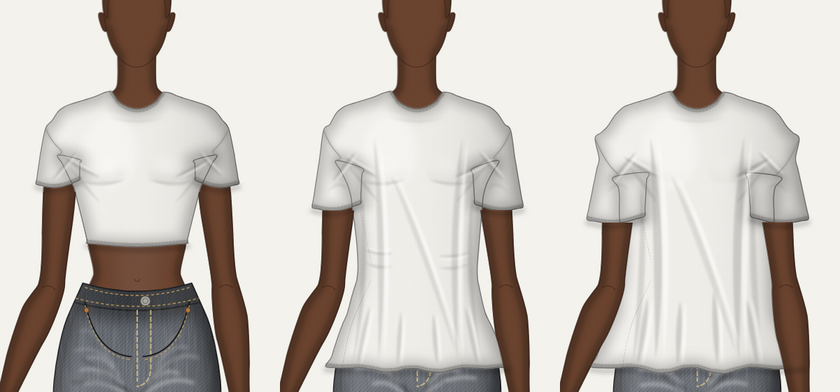
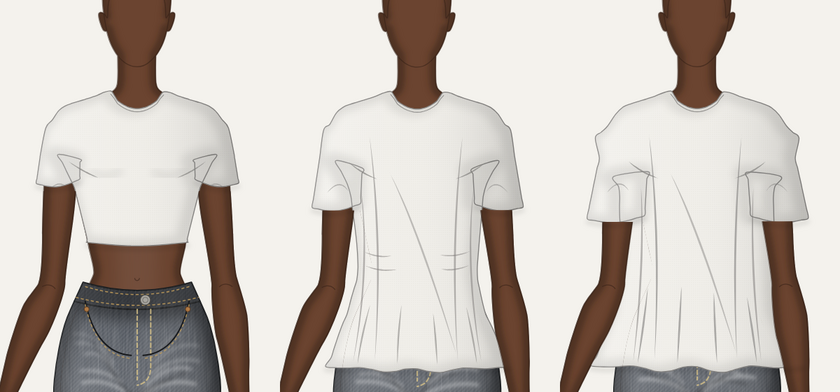
Tops: clean illustration style
Dropped the grey halos, white streaks and blurred edge bands. Tops now get
one crisp outline, flat fabric with a soft shadow side, and a few thin
tapered fold lines.

Claude-Session: https://claude.ai/code/session_01N4gmdzgjq2mCxibreUu9UH

diff --git a/src/components/TopView.tsx b/src/components/TopView.tsx
@@ -119,54 +119,28 @@ export const TopView = memo(function TopView({ g, t, rendered, shading, selected
         <path d={body} fill={fill} stroke={outline} strokeWidth={rendered ? 0.9 : 1.5} strokeLinejoin="round" data-kind="garment" data-gid={g.id} />
         {rendered && shading && (
           <g clipPath={`url(#${clip})`} pointerEvents="none">
+            {/* light from the upper left: one soft shadow side, like marker shading */}
             <rect x={0} y={0} width={600} height={1000} fill={`url(#tl-${uid})`} />
-            <path d={body} fill="none" stroke="#000" strokeWidth={7} opacity={dark ? 0.36 : 0.16} filter={`url(#tb-${uid})`} style={{ mixBlendMode: 'multiply' }} />
-            {/* round shading: darker toward the sides so the torso reads as a body */}
-            <path d={body} fill="none" stroke="#000" strokeWidth={22} opacity={dark ? 0.22 : 0.1} filter={`url(#tb-${uid})`} style={{ mixBlendMode: 'multiply' }} />
-            <ellipse cx={F(-0.35, 0.3).x} cy={F(-0.35, 0.3).y} rx={26} ry={34} fill="#fff" opacity={dark ? 0.08 : 0.35} filter={`url(#tb-${uid})`} />
-            {/* the body underneath: bust volume pushes the fabric out, lit on top and shaded underneath */}
-            {bust &&
+            <path d={body} fill="none" stroke={shadeC} strokeWidth={14} opacity={dark ? 0.35 : 0.14} filter={`url(#tb-${uid})`} transform="translate(-4 0)" />
+            {bust && stiff < 0.6 &&
               [-1, 1].map((sx) => {
-                const c = F(sx * 0.46, 0.4);
-                const k = 1 - stiff * 0.7;
-                return (
-                  <g key={sx} opacity={k} filter={`url(#tb-${uid})`}>
-                    <path d={`M${f1(c.x - 17)},${f1(c.y + 2)} Q${f1(c.x)},${f1(c.y + 15)} ${f1(c.x + 17)},${f1(c.y + 1)}`} fill="none" stroke="#000" strokeWidth={5} opacity={dark ? 0.3 : 0.12} />
-                    <ellipse cx={c.x - sx * 3} cy={c.y - 5} rx={9} ry={7} fill="#fff" opacity={dark ? 0.08 : 0.22} />
-                  </g>
-                );
+                const c = F(sx * 0.46, 0.41);
+                return <path key={sx} d={`M${f1(c.x - 15)},${f1(c.y)} Q${f1(c.x)},${f1(c.y + 11)} ${f1(c.x + 15)},${f1(c.y - 1)}`} fill="none" stroke={shadeC} strokeWidth={6} opacity={dark ? 0.3 : 0.13} filter={`url(#tb-${uid})`} />;
               })}
-            {/* the edges turn under: a soft dark line just inside every hem and the neckline */}
-            <g fill="none" stroke="#000" strokeLinecap="round" filter={`url(#tf-${uid})`} opacity={dark ? 0.4 : 0.22}>
-              {shape.hems.map((h, i) => (
-                <path key={i} d={line(h)} strokeWidth={3} transform="translate(0 -1.5)" />
-              ))}
-              <path d={line(shape.neckline)} strokeWidth={2.5} transform="translate(0 1.5)" />
-            </g>
+          </g>
+        )}
+        {rendered && (
+          <g clipPath={`url(#${clip})`} pointerEvents="none">
+            {/* fold lines drawn like ink: thin, tapered, no glow */}
             {folds.map((fd, i) => {
               const c = sample(fd.pts.map((p) => topForward(t, p, stiff)));
-              return (
-                <g key={i}>
-                  <path d={ribbon(c, fd.w)} fill={shadeC} opacity={fd.o * (dark ? 1.3 : 1)} filter={`url(#tf-${uid})`} />
-                  {fd.ridge && <path d={ribbon(c, fd.w * 0.7, fd.w * 0.9)} fill="#fff" opacity={dark ? 0.1 : 0.55} filter={`url(#tf-${uid})`} />}
-                </g>
-              );
+              return <path key={i} d={ribbon(c, Math.min(1.8, 0.6 + fd.w * 0.22))} fill={outline} opacity={Math.min(0.75, 0.25 + fd.o * 1.6)} />;
             })}
           </g>
         )}
-        {/* neckline binding, sleeve and body hems */}
+        {/* neckline binding */}
         <g fill="none" pointerEvents="none" strokeLinecap="round">
-          {armholes.map((d, i) => (
-            <g key={`ah${i}`} clipPath={`url(#${clip})`}>
-              <path d={d} stroke={shadeC} strokeWidth={rendered ? 3 : 0} opacity={0.12} filter={rendered ? `url(#tf-${uid})` : undefined} />
-              <path d={d} stroke={outline} strokeWidth={rendered ? 0.7 : 1} opacity={rendered ? 0.7 : 0.9} />
-            </g>
-          ))}
-          <path d={line(shape.neckline)} stroke={outline} strokeWidth={rendered ? 3.2 : 1.2} opacity={rendered ? 0.22 : 1} />
-          <path d={line(shape.neckline)} stroke={outline} strokeWidth={0.7} strokeDasharray={rendered ? '2 1.4' : undefined} transform="translate(0 2.6)" opacity={0.7} />
-          {shape.hems.map((h, i) => (
-            <path key={i} d={line(h)} stroke={outline} strokeWidth={0.7} strokeDasharray="2 1.4" transform={`translate(0 ${-2.8})`} opacity={0.65} />
-          ))}
+          <path d={line(shape.neckline)} stroke={outline} strokeWidth={0.8} transform="translate(0 3)" opacity={0.8} />
         </g>
         <g clipPath={`url(#${clip})`}>
           {g.distress.map((d, i) => {

diff --git a/src/model/topFolds.ts b/src/model/topFolds.ts
@@ -28,9 +28,7 @@ export function topFolds(id: string, o: TopOpts, hemV: number, bust: boolean): F
 
   for (const s of [-1, 1] as const) {
     // pull from the underarm toward the bust or chest
-    out.push({ pts: [T(s * 0.98, 0.33), T(s * (0.8 + j(0.05)), 0.4), T(s * (0.58 + j(0.06)), bust ? 0.44 : 0.47)], w: 2.6 + loose, o: 0.3, ridge: true });
-    out.push({ pts: [T(s * 0.97, 0.38), T(s * 0.82, 0.5 + j(0.03)), T(s * (0.66 + j(0.05)), 0.58)], w: 2 + loose, o: 0.22, ridge: false });
-    if (bust && loose < 1) out.push({ pts: [T(s * 0.86, 0.46), T(s * 0.55, 0.5), T(s * 0.18, 0.45)], w: 3.2, o: 0.2, ridge: false });
+    out.push({ pts: [T(s * 0.94, 0.36), T(s * (0.8 + j(0.05)), 0.42), T(s * (0.6 + j(0.06)), bust ? 0.45 : 0.48)], w: 2.6 + loose, o: 0.3, ridge: true });
     // gather at the waist where a fitted or regular top bunches
     if (hemV > 0.9 && loose < 1) {
       for (let k = 0; k < 2; k++) {
@@ -48,7 +46,6 @@ export function topFolds(id: string, o: TopOpts, hemV: number, bust: boolean): F
       const side = s < 0 ? 'armL' : 'armR';
       const len = o.block === 'Long sleeve' ? 2 : 0.4;
       // folds radiating from the armpit across the sleeve
-      out.push({ pts: [A(side, 0.05, 0.85), A(side, 0.16, 0.25), A(side, 0.26 + j(0.04), -0.35)], w: 2.4 + loose, o: 0.26, ridge: true });
       if (len > 1) {
         // elbow and wrist stacking on long sleeves
         for (const a0 of [0.9, 1.05, 1.75, 1.88]) out.push({ pts: [A(side, a0, -0.9), A(side, a0 + 0.04 + j(0.03), 0), A(side, a0, 0.9)], w: 2, o: 0.24, ridge: a0 < 1 });
@@ -69,8 +66,6 @@ export function topFolds(id: string, o: TopOpts, hemV: number, bust: boolean): F
     // a long diagonal pull from the bust toward the far side of the hem, from the walking stride
     out.push({ pts: [T(-0.4, 0.42), T(0.05, 0.75), T(0.55, hemV - 0.05)], w: 4 + loose * 2, o: 0.14, ridge: true });
   }
-  // collar bone drag under the neckline
-  out.push({ pts: [T(-0.32, 0.12), T(0, 0.16 + (o.neck === 'Crew' ? 0 : 0.08)), T(0.32, 0.12)], w: 1.8, o: 0.12, ridge: false });
   if (o.tuck) {
     for (let k = 0; k < 5; k++) {
       const u = -0.8 + k * 0.4 + j(0.1);

diff --git a/src/components/Canvas.tsx b/src/components/Canvas.tsx
@@ -491,7 +491,7 @@ export function Canvas() {
                   .map((g) => {
                     const sh = topShape(torso, g.points, stiffOf(g.top));
                     return sh.hems.map((h, i) => (
-                      <path key={`${g.id}${i}`} d={'M' + h.map((p) => `${p.x.toFixed(1)},${(p.y + 3).toFixed(1)}`).join(' L')} strokeWidth={4} opacity={0.22} />
+                      <path key={`${g.id}${i}`} d={'M' + h.map((p) => `${p.x.toFixed(1)},${(p.y + 3).toFixed(1)}`).join(' L')} strokeWidth={3} opacity={0.12} />
                     ));
                   })}
               </g>
